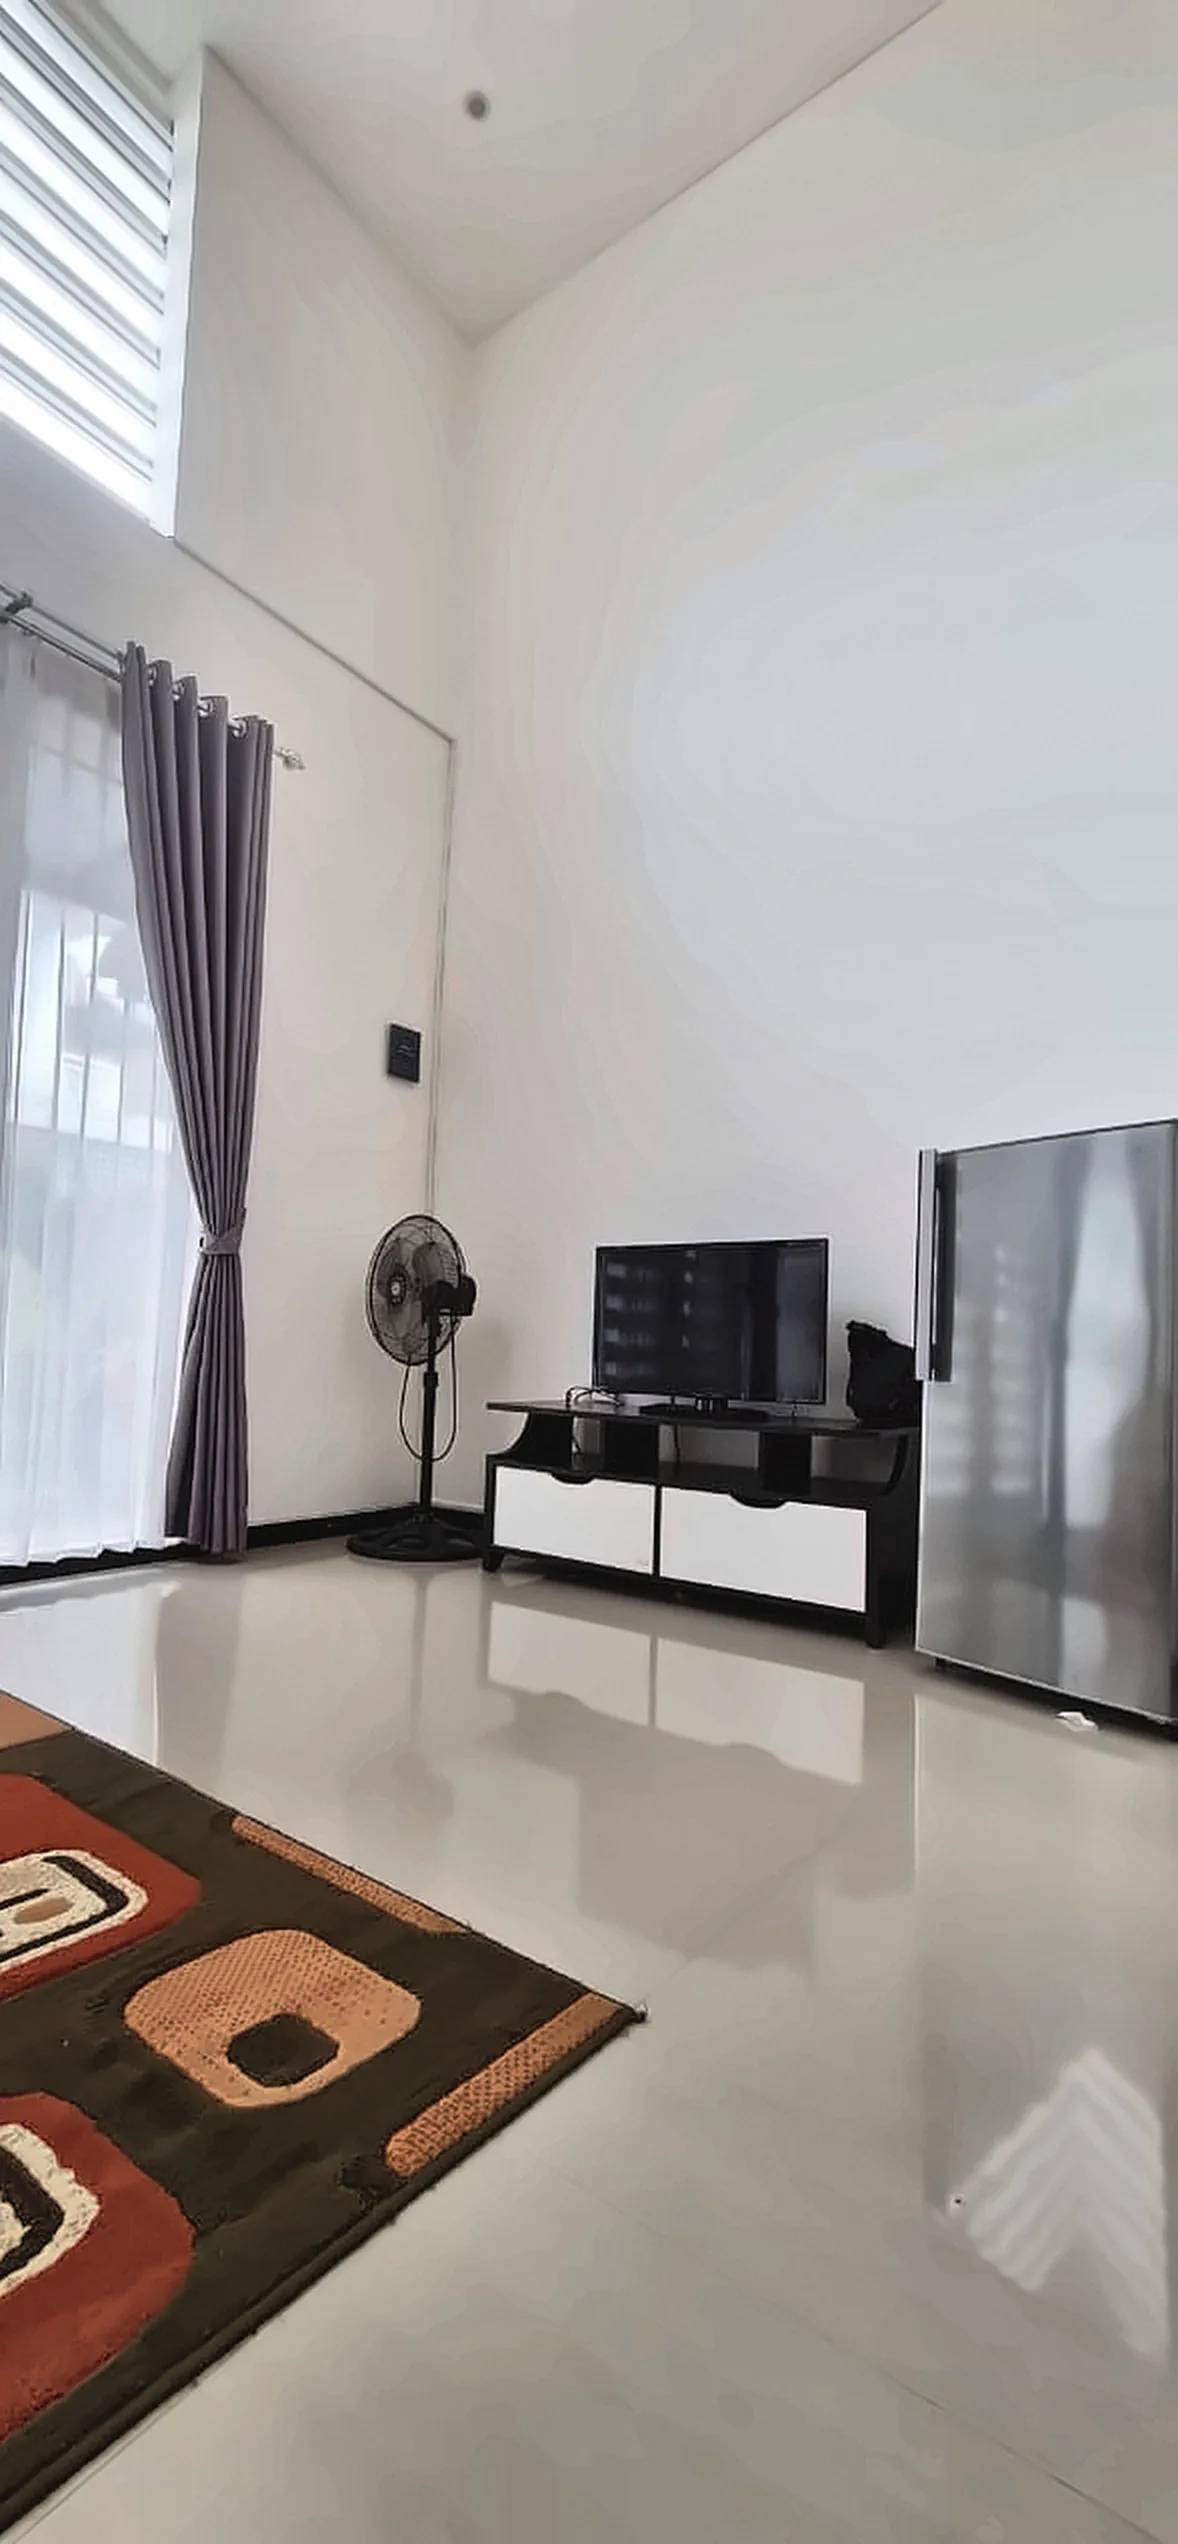
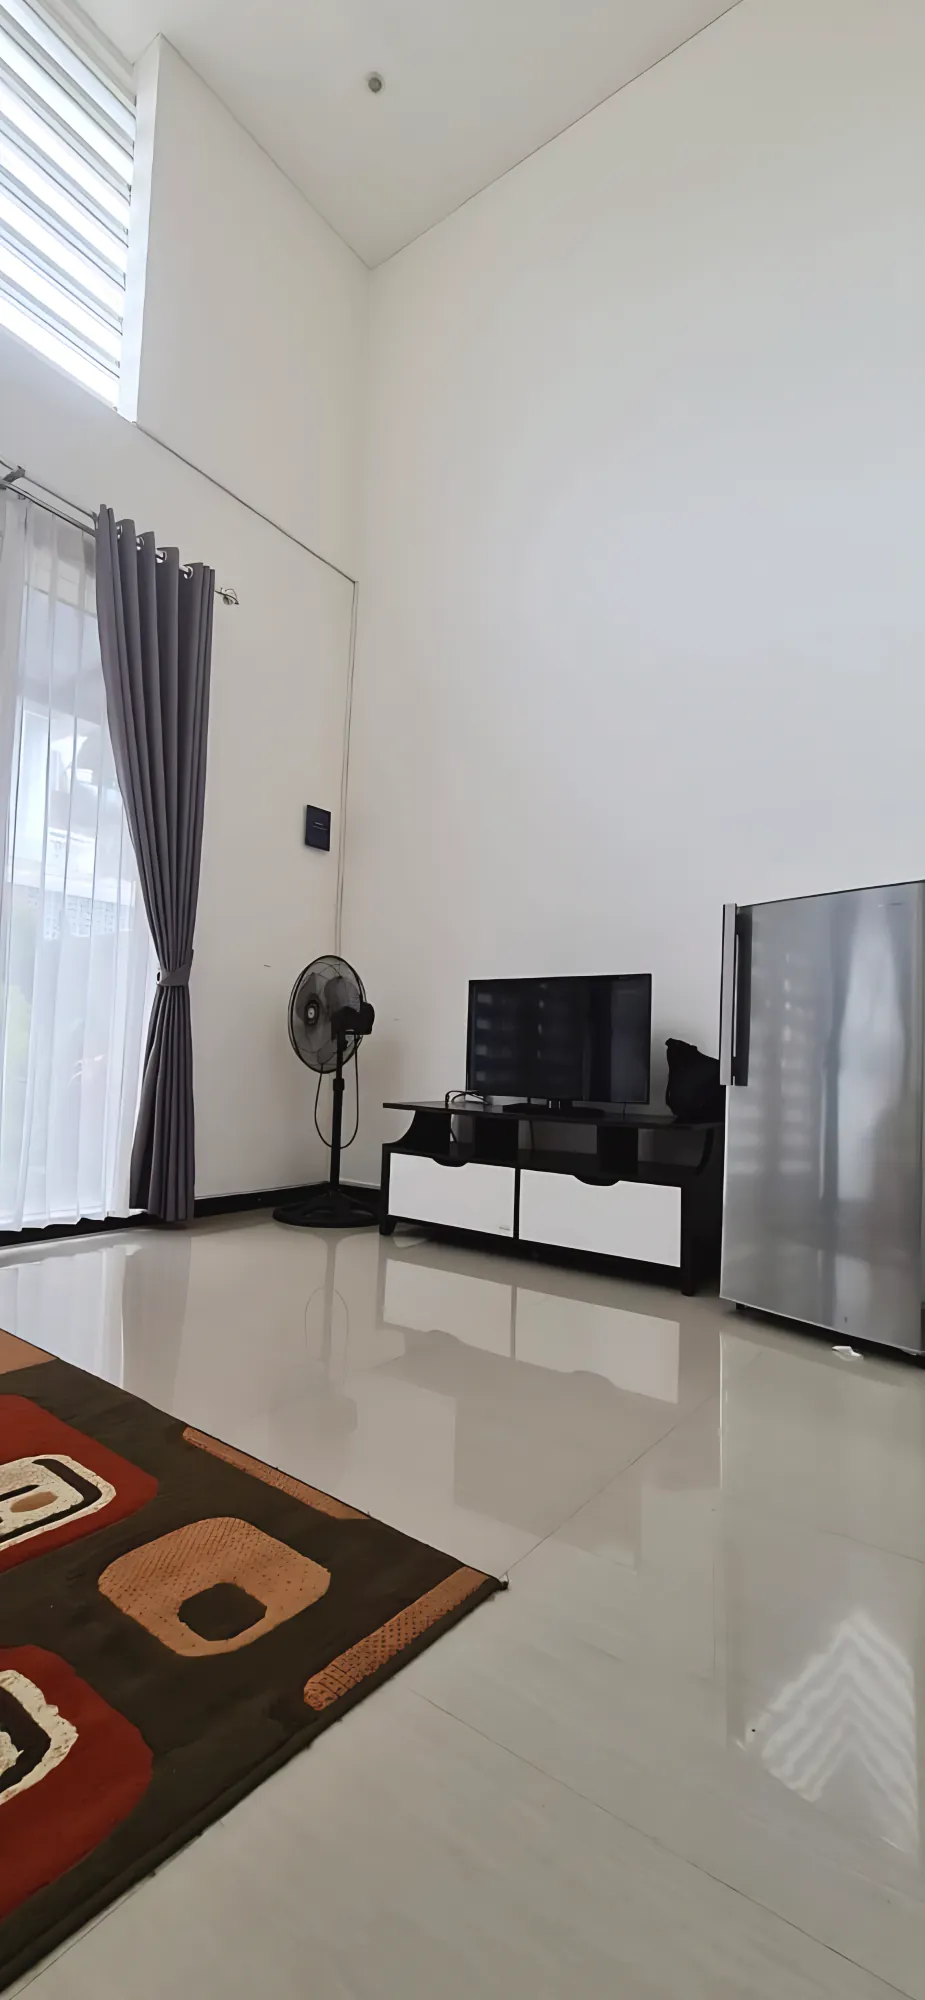
Upscale photos with Real-ESRGAN (general-x4v3) and regrade
Claude-Session: https://claude.ai/code/session_01JnhzYJssPHGcv2bK3CvoGY

diff --git a/index.html b/index.html
@@ -357,7 +357,7 @@ body.lock{overflow:hidden}
 
 <main id="top">
   <section class="hero" aria-labelledby="h1">
-    <img src="img/depan-carport.webp" width="1424" height="1426" alt="Tampak depan Villa Frengky: rumah putih dua lantai dengan kanopi baja, taman depan, dan mobil di carport">
+    <img src="img/depan-carport.webp" width="1920" height="1920" alt="Tampak depan Villa Frengky: rumah putih dua lantai dengan kanopi baja, taman depan, dan mobil di carport">
     <div class="wrap hero-in">
       <p class="label"><svg class="i" aria-hidden="true"><use href="#i-pin"/></svg>Temas · Kota Batu</p>
       <h1 id="h1">Villa Frengky</h1>
@@ -399,10 +399,10 @@ body.lock{overflow:hidden}
   <section class="gallery" id="galeri" aria-label="Galeri foto">
     <div class="wrap">
       <div class="ggrid">
-        <a class="g1" href="img/ruang-keluarga.webp" data-lb="0"><img src="img/ruang-keluarga.webp" loading="lazy" width="1178" height="2544" alt="Ruang keluarga berplafon tinggi dengan sofa dan jendela besar" style="object-position:50% 70%"></a>
-        <a class="g2" href="img/dapur.webp" data-lb="1"><img src="img/dapur.webp" loading="lazy" width="1424" height="1140" alt="Dapur dengan kompor gas dua tungku"></a>
-        <a class="g4" href="img/taman-belakang.webp" data-lb="3"><img src="img/taman-belakang.webp" loading="lazy" width="1178" height="2544" alt="Halaman belakang berumput dengan atap transparan" style="object-position:40% 70%"></a>
-        <a class="g5" href="img/kamar.webp" data-lb="2"><img src="img/kamar.webp" loading="lazy" width="1424" height="1408" alt="Kamar tidur dengan jendela besar bertirai" style="object-position:50% 62%"></a>
+        <a class="g1" href="img/ruang-keluarga.webp" data-lb="0"><img src="img/ruang-keluarga.webp" loading="lazy" width="1109" height="2400" alt="Ruang keluarga berplafon tinggi dengan sofa dan jendela besar" style="object-position:50% 70%"></a>
+        <a class="g2" href="img/dapur.webp" data-lb="1"><img src="img/dapur.webp" loading="lazy" width="1600" height="1281" alt="Dapur dengan kompor gas dua tungku"></a>
+        <a class="g4" href="img/taman-belakang.webp" data-lb="3"><img src="img/taman-belakang.webp" loading="lazy" width="1109" height="2400" alt="Halaman belakang berumput dengan atap transparan" style="object-position:40% 70%"></a>
+        <a class="g5" href="img/kamar.webp" data-lb="2"><img src="img/kamar.webp" loading="lazy" width="1600" height="1582" alt="Kamar tidur dengan jendela besar bertirai" style="object-position:50% 62%"></a>
       </div>
       <div class="gfoot">
         <p class="muted small">Foto asli Villa Frengky.</p>
@@ -500,7 +500,7 @@ body.lock{overflow:hidden}
   </section>
 
   <section class="close" aria-labelledby="closeH">
-    <img src="img/depan-taman.webp" loading="lazy" width="1424" height="1426" alt="Teras depan Villa Frengky dengan taman">
+    <img src="img/depan-taman.webp" loading="lazy" width="1800" height="1800" alt="Teras depan Villa Frengky dengan taman">
     <div class="wrap">
       <h2 id="closeH">Cek tanggal kosong di Villa Frengky</h2>
       <p>Pilih tanggal, lihat totalnya, lalu kirim ke WhatsApp kami. Kami balas dengan konfirmasi ketersediaan.</p>
